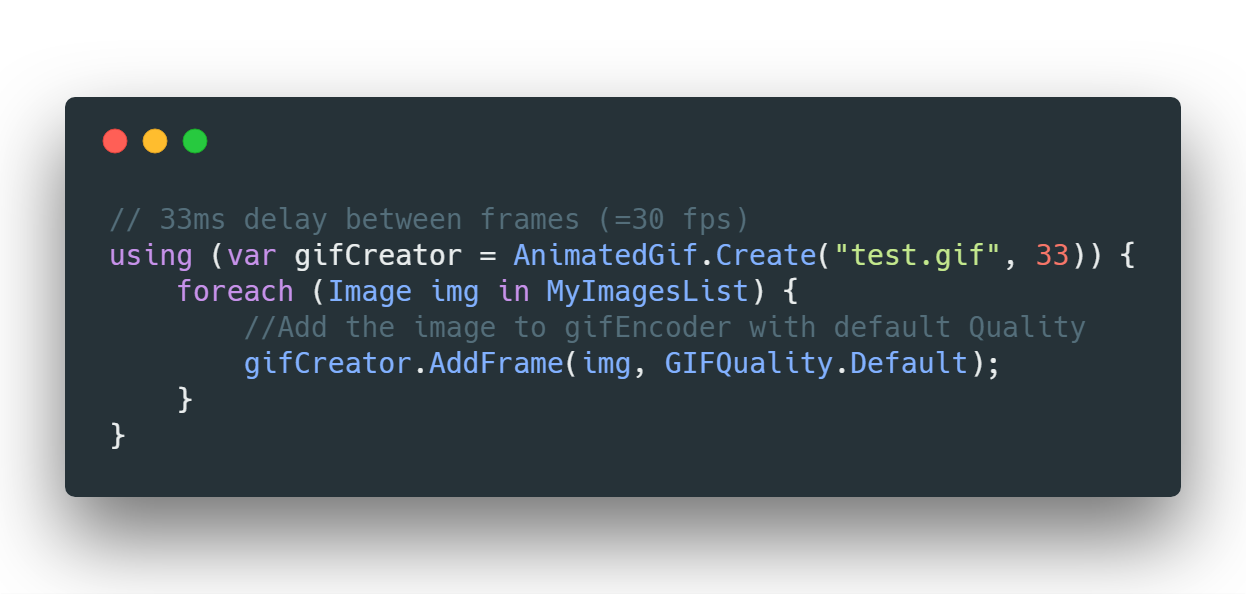
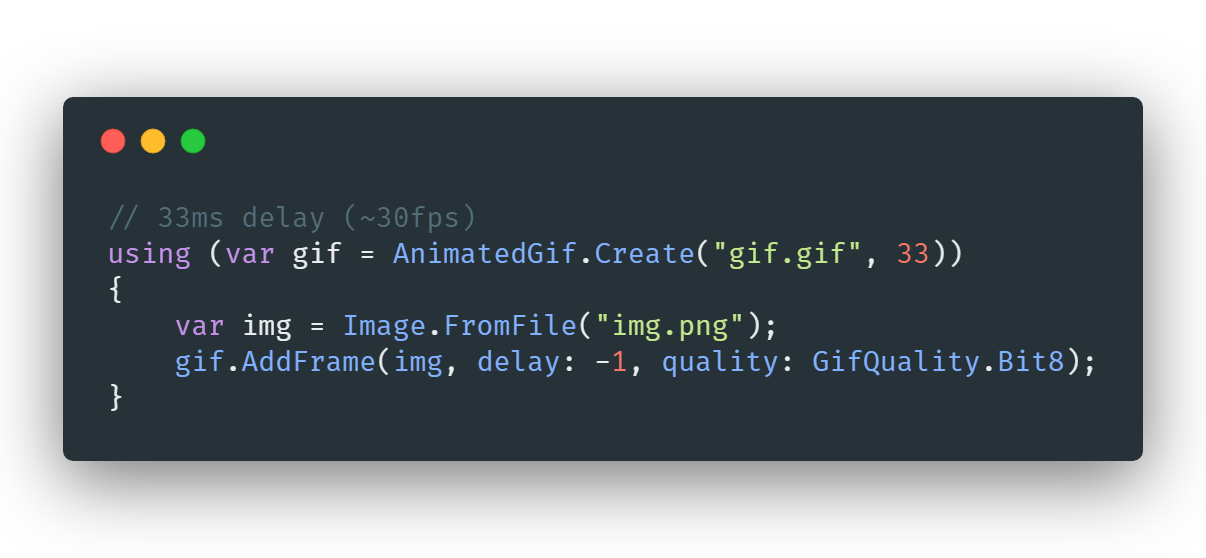
Add demo code and update example

diff --git a/AnimatedGif.Demo/Properties/AssemblyInfo.cs b/AnimatedGif.Demo/Properties/AssemblyInfo.cs
@@ -1,0 +1,36 @@
+using System.Reflection;
+using System.Runtime.CompilerServices;
+using System.Runtime.InteropServices;
+
+// General Information about an assembly is controlled through the following
+// set of attributes. Change these attribute values to modify the information
+// associated with an assembly.
+[assembly: AssemblyTitle("AnimatedGif.Demo")]
+[assembly: AssemblyDescription("")]
+[assembly: AssemblyConfiguration("")]
+[assembly: AssemblyCompany("")]
+[assembly: AssemblyProduct("AnimatedGif.Demo")]
+[assembly: AssemblyCopyright("Copyright ©  2018")]
+[assembly: AssemblyTrademark("")]
+[assembly: AssemblyCulture("")]
+
+// Setting ComVisible to false makes the types in this assembly not visible
+// to COM components.  If you need to access a type in this assembly from
+// COM, set the ComVisible attribute to true on that type.
+[assembly: ComVisible(false)]
+
+// The following GUID is for the ID of the typelib if this project is exposed to COM
+[assembly: Guid("dda7edf9-2b90-4d3c-8a1d-3e1d844f0c71")]
+
+// Version information for an assembly consists of the following four values:
+//
+//      Major Version
+//      Minor Version
+//      Build Number
+//      Revision
+//
+// You can specify all the values or you can default the Build and Revision Numbers
+// by using the '*' as shown below:
+// [assembly: AssemblyVersion("1.0.*")]
+[assembly: AssemblyVersion("1.0.0.0")]
+[assembly: AssemblyFileVersion("1.0.0.0")]

diff --git a/AnimatedGif.Demo/Program.cs b/AnimatedGif.Demo/Program.cs
@@ -1,0 +1,22 @@
+using System;
+using System.Collections.Generic;
+using System.Drawing;
+using System.Linq;
+using System.Text;
+using System.Threading.Tasks;
+
+namespace AnimatedGif.Demo
+{
+    public class Program
+    {
+        public static void Main(string[] args)
+        {
+            // 33ms delay (~30fps)
+            using (var gif = AnimatedGif.Create("gif.gif", 33))
+            {
+                var img = Image.FromFile("img.png");
+                gif.AddFrame(img, delay: -1, quality: GifQuality.Bit8);
+            }
+        }
+    }
+}
